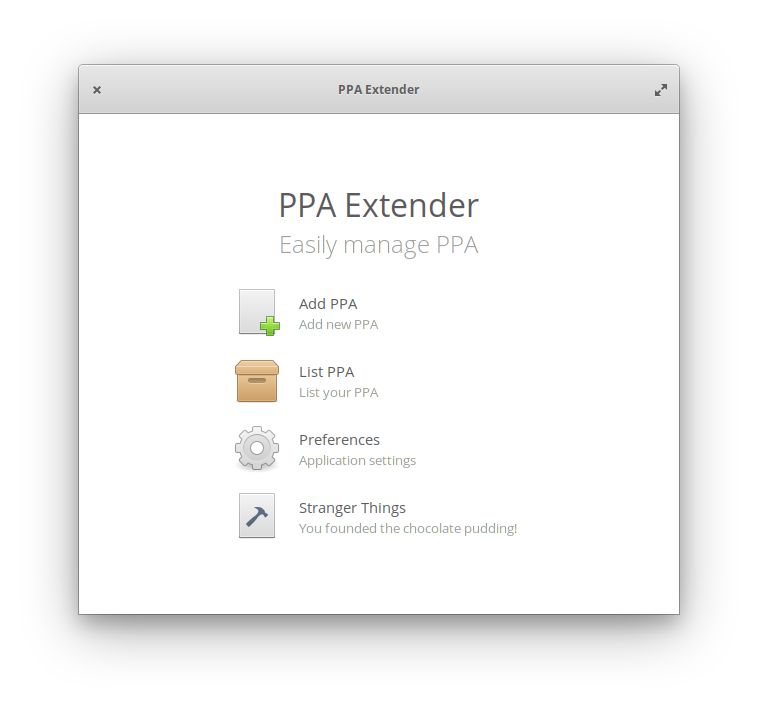
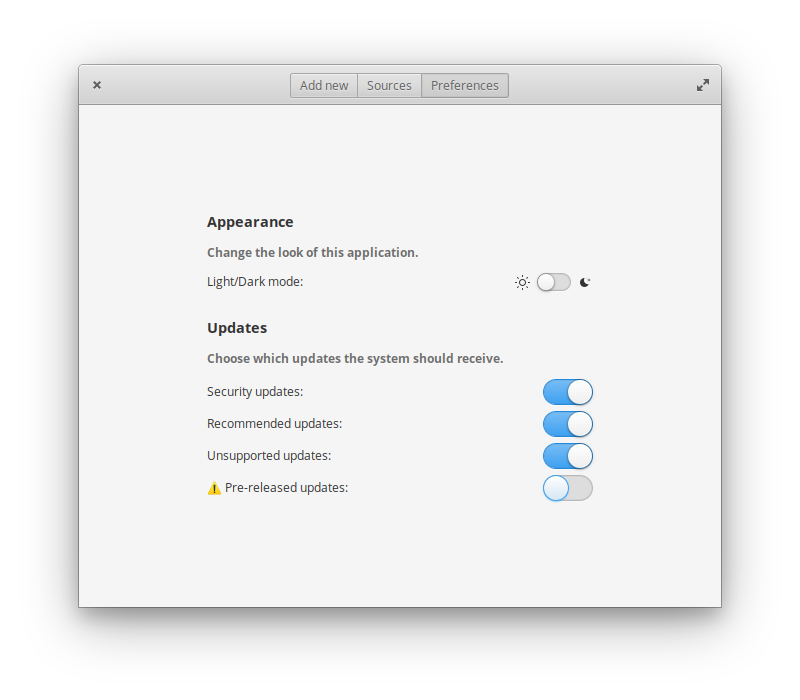
Added updated screenshots Italian translation updated

diff --git a/README.md b/README.md
@@ -4,7 +4,10 @@ An application to extend repo on debian/ubuntu based systems.
 ⚠ This application is under development.
 
 <div align="center">
-  <img src="https://raw.githubusercontent.com/linuxhubit/ppaextender/master/data/screenshot.png">
+  <img src="https://raw.githubusercontent.com/linuxhubit/ppaextender/master/data/screenshot.png" width="300">
+  <img src="https://raw.githubusercontent.com/linuxhubit/ppaextender/master/data/screenshot-1.png" width="300">
+  <img src="https://raw.githubusercontent.com/linuxhubit/ppaextender/master/data/screenshot-2.png" width="300">
+  <img src="https://raw.githubusercontent.com/linuxhubit/ppaextender/master/data/screenshot-3.png" width="300">
 </div>
 
 ## Warning
@@ -40,3 +43,4 @@ sudo ninja install
 * Core.Sources.add
 * Core.Sources.delete
 * Core.Sources.update
+
